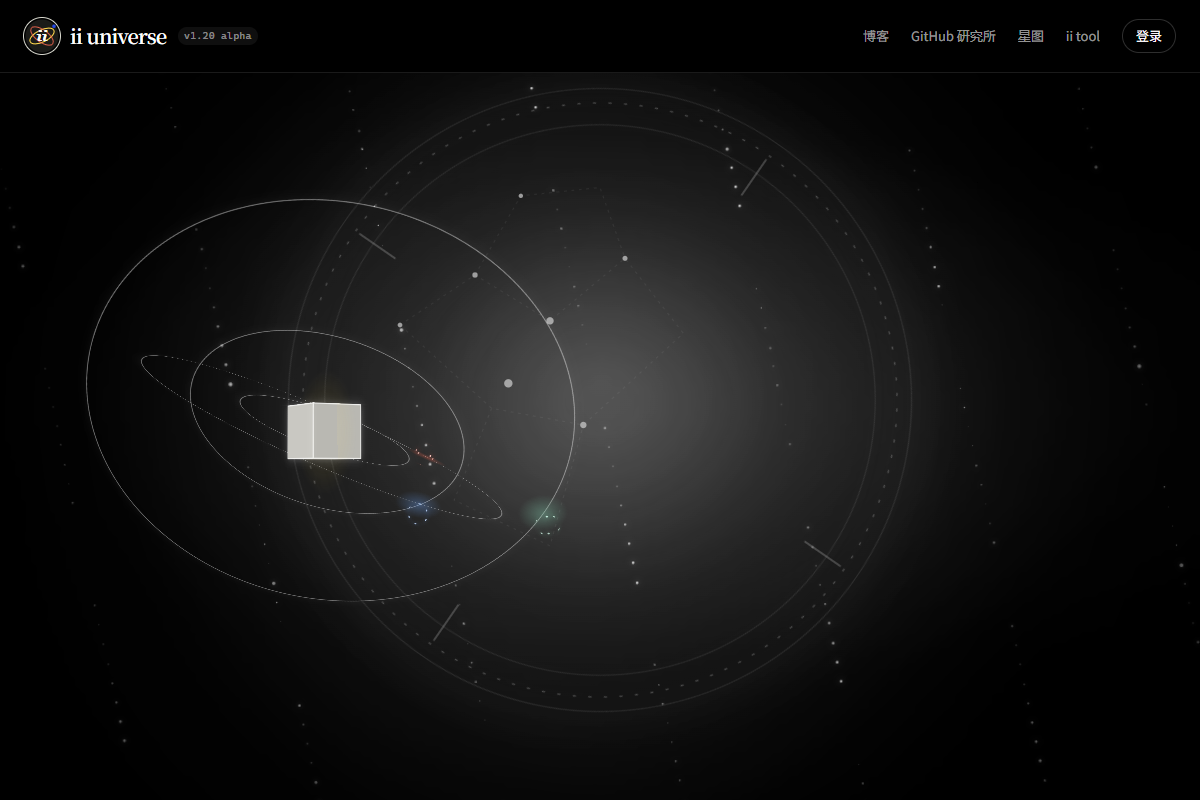
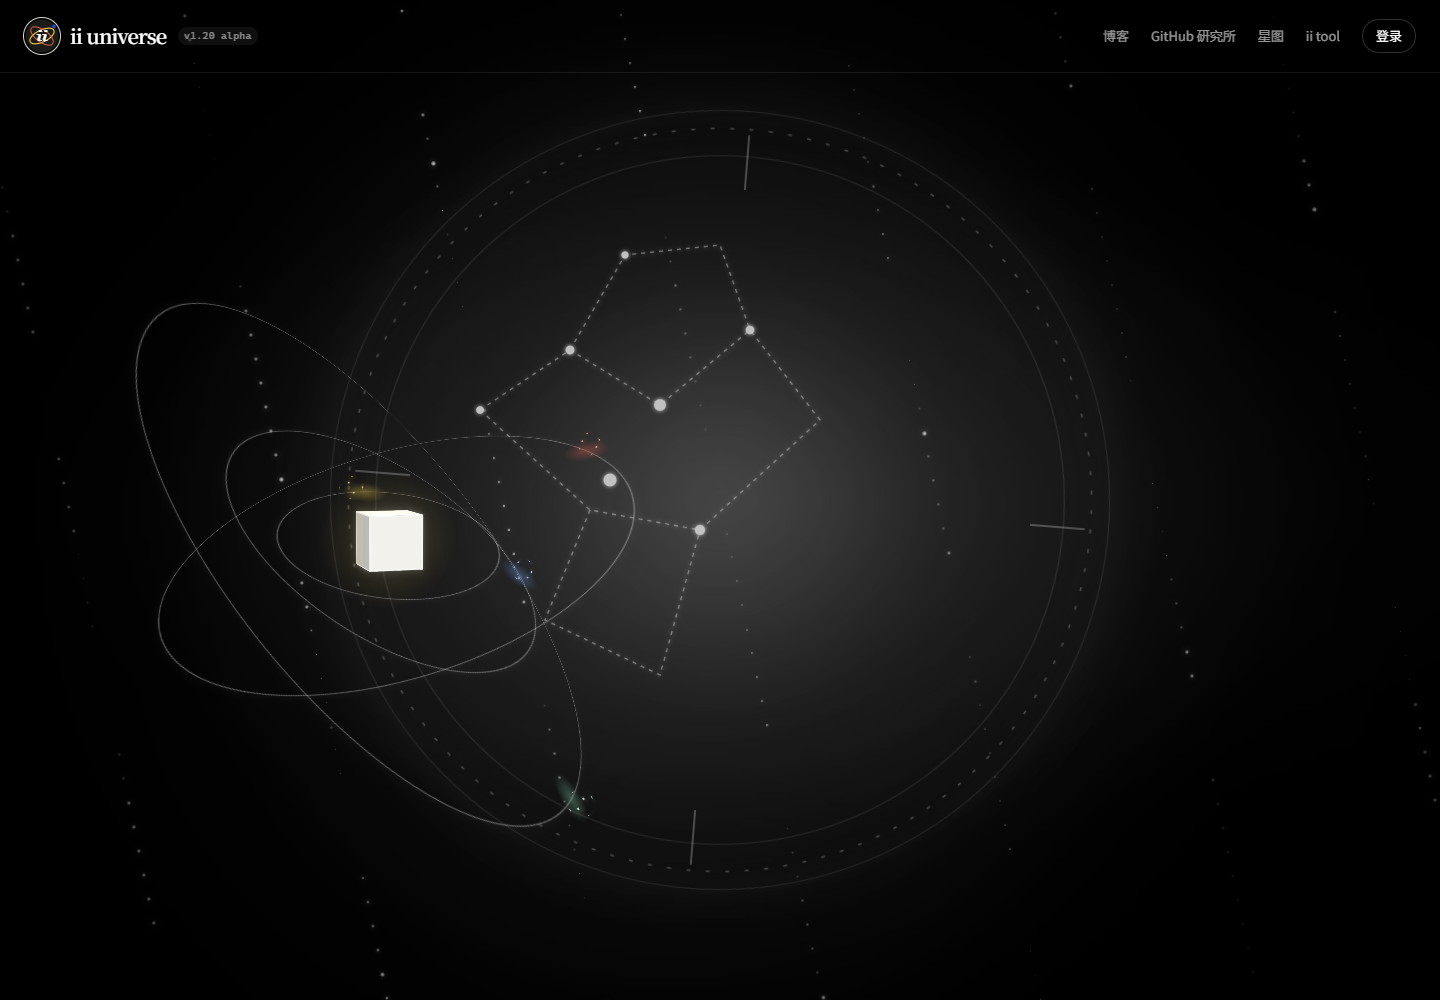
style: brighten universe text constellation and top bar

diff --git a/src/components/UniverseDeepField.tsx b/src/components/UniverseDeepField.tsx
@@ -47,20 +47,35 @@ export function UniverseDeepField() {
       </div>
 
       <svg className="universe-text-deep__constellation" viewBox="0 0 1440 1000" preserveAspectRatio="xMidYMid slice">
-        <g fill="none" stroke="rgba(255, 255, 255, 0.16)" strokeWidth="0.9" strokeDasharray="3 6">
+        <defs>
+          <filter id="deepConstellationGlow" x="-30%" y="-30%" width="160%" height="160%">
+            <feGaussianBlur stdDeviation="2.2" result="blur" />
+            <feMerge>
+              <feMergeNode in="blur" />
+              <feMergeNode in="SourceGraphic" />
+            </feMerge>
+          </filter>
+        </defs>
+        <g
+          fill="none"
+          stroke="rgba(255, 255, 255, 0.52)"
+          strokeWidth="1.35"
+          strokeDasharray="4 5"
+          filter="url(#deepConstellationGlow)"
+        >
           <polyline points="480,410 570,350 660,405 750,330 820,420 700,530 590,510 480,410" />
           <polyline points="570,350 625,255 720,245 750,330" />
           <polyline points="590,510 545,620 660,675 700,530" />
         </g>
-        <g fill="#ffffff">
+        <g fill="#ffffff" filter="url(#deepConstellationGlow)">
           {[
-            [570, 350, 3.2],
-            [660, 405, 4.4],
-            [750, 330, 3],
-            [700, 530, 3.8],
-            [480, 410, 2.8],
-            [625, 255, 2.6],
-            [610, 480, 5],
+            [570, 350, 4.4],
+            [660, 405, 5.8],
+            [750, 330, 4.2],
+            [700, 530, 5],
+            [480, 410, 3.8],
+            [625, 255, 3.6],
+            [610, 480, 6.4],
           ].map(([x, y, radius], index) => (
             <circle key={index} cx={x} cy={y} r={radius} />
           ))}

diff --git a/src/css/pages/universe-text.css b/src/css/pages/universe-text.css
@@ -56,7 +56,7 @@
   inset: 0;
   width: 100%;
   height: 100%;
-  opacity: 0.7
+  opacity: 0.9
 }
 
 .universe-text-deep__ring {
@@ -112,8 +112,8 @@
   width: 100%;
   max-width: none;
   margin: 0;
-  background: #000000;
-  border-bottom-color: rgba(255, 255, 255, 0.1);
+  background: transparent;
+  border-bottom-color: rgba(255, 255, 255, 0.08);
   backdrop-filter: none;
   -webkit-backdrop-filter: none
 }
